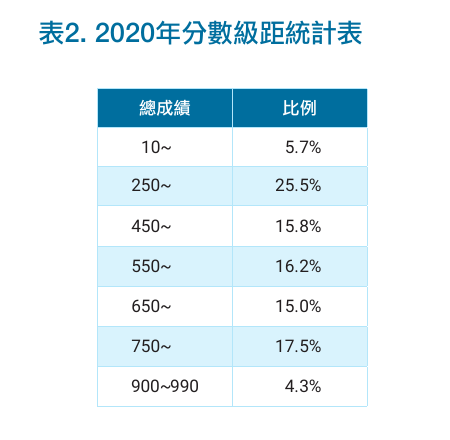
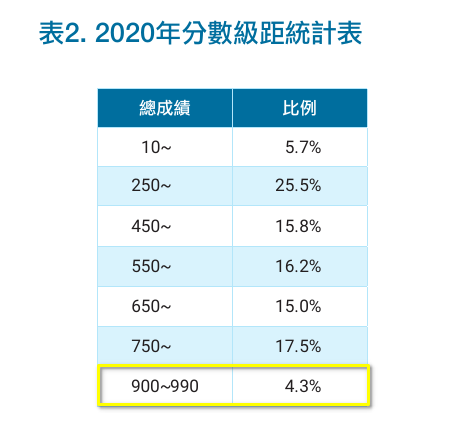
update

Changed region(s): [[0.2178, 0.8273, 0.84, 0.9455]]

diff --git a/toeic.md b/toeic.md
@@ -1,15 +1,15 @@
 ![Average](https://github.com/arror403/arror403_note/blob/main/pics/aver.png)
 
-Average = 566
+##Average = 566
 
 ![Disributaion](https://github.com/arror403/arror403_note/blob/main/pics/dist.png)
 
-Percentage of people whose score >= 900
+##Percentage of people whose score >= 900 is 4.3%
 
 ![900+](https://github.com/arror403/arror403_note/blob/main/pics/norm_dist_900.png)
 
-With the above two, we can calculate standard deviation in normal distribution.
+##With the above two, we can calculate standard deviation in normal distribution.
 
 ![815+](https://github.com/arror403/arror403_note/blob/main/pics/norm_dist_815.png)
 
-Put my score in.
+##Put my score in.
